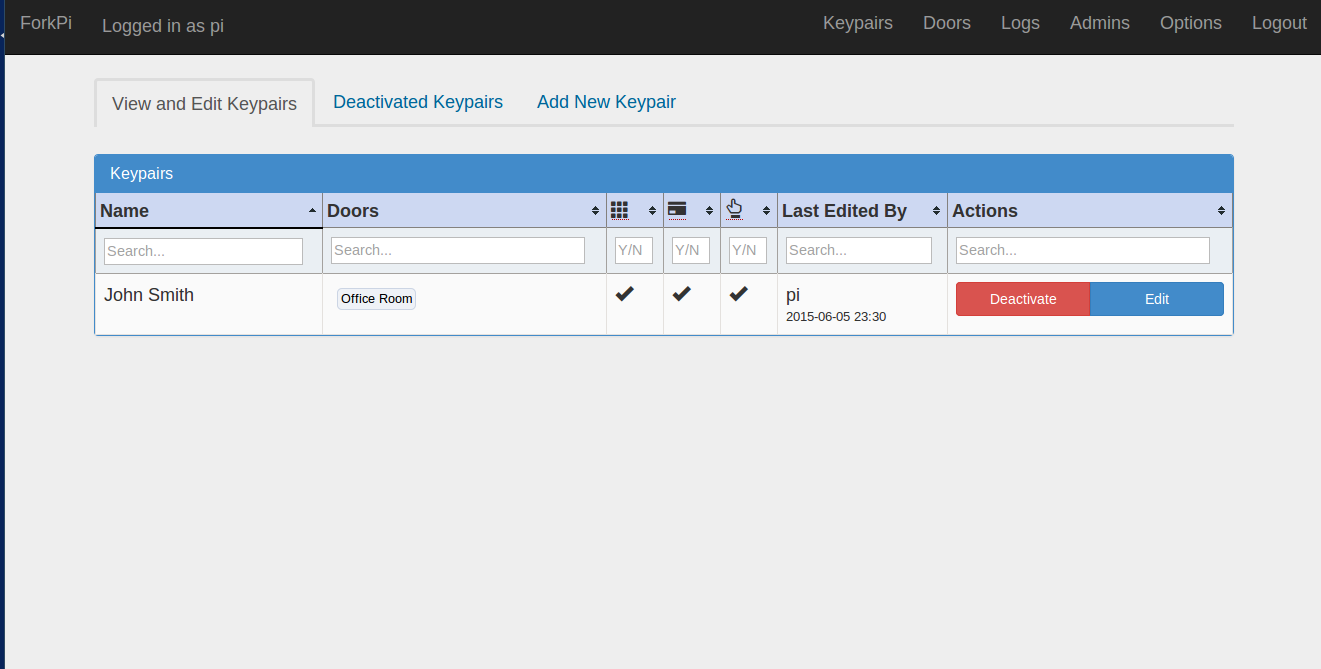
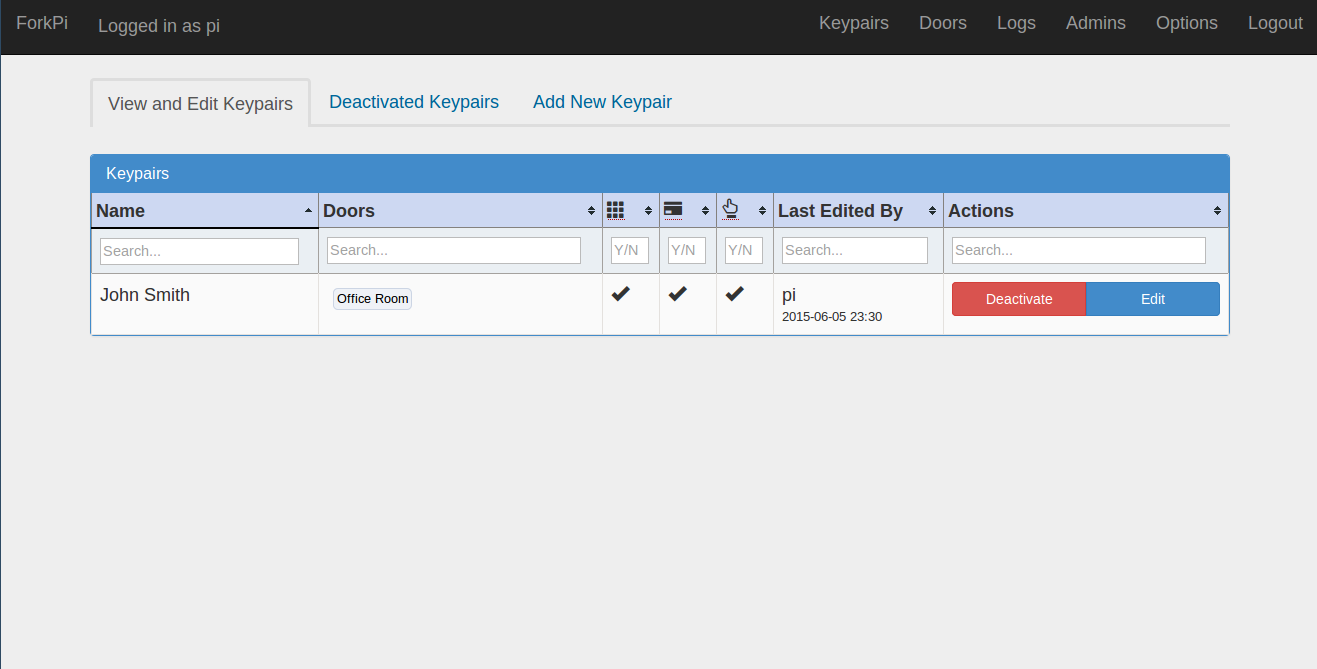
Fixed the images.

diff --git a/README.md b/README.md
@@ -151,25 +151,25 @@ The flowchart below gives an overview of the main transaction loop. The process 
 ![spoonpi-flowchart](https://github.com/crentagon/forkpi/blob/master/images/spoonpi-flowchart.png)
 
 #### Default Screen
-![spoon-initial](https://github.com/crentagon/forkpi/blob/master/images/spoon-initial.png)
+![spoon-initial](https://github.com/crentagon/forkpi/blob/master/images/spoon-initial.jpg)
 
 #### Entering the PIN
-![spoon-pin](https://github.com/crentagon/forkpi/blob/master/images/spoon-pin.png)
+![spoon-pin](https://github.com/crentagon/forkpi/blob/master/images/spoon-pin.jpg)
 
 #### Swiping the RFID Card
-![spoon-rfid](https://github.com/crentagon/forkpi/blob/master/images/spoon-rfid.png)
+![spoon-rfid](https://github.com/crentagon/forkpi/blob/master/images/spoon-rfid.jpg)
 
 The RFID security we implemented is simple in that only the UID is retrieved from the tag. Hence, a combination of RFID and PIN may be vulnerable to brute force attacks. To prevent this, we defined an attempt limit of 5 (which can be reconfigured via ForkPi options). If a registered RFID tag is presented but the wrong PIN is entered, the failed attempt streak counter will increment, and if this reaches 5, the SpoonPi unit will reject all further log-in attempts from that RFID tag. 
 
 This lockout will expire after a certain amount of time, after which the RFID tag can be used normally again. Note that lockouts are local to a SpoonPi unit; an RFID tag locked out for a certain door can still be used in other doors.
 
 #### Scanning Fingerprint
-![spoon-fingerprint](https://github.com/crentagon/forkpi/blob/master/images/spoon-fingerprint.png)
+![spoon-fingerprint](https://github.com/crentagon/forkpi/blob/master/images/spoon-fingerprint.jpg)
 
 In finding keypairs whose fingerprint template matches that of the finger presented to SpoonPi, the fingerprint thread queries ForkPi for all keypairs that have a non-blank fingerprint template field, and are linked to its door. Then, it registers the presented template onto the fingerprint scanner's onboard memory. It uploads the queried templates, and matches it with the presented template using the scanner's internal matching algorithm. It stores the keypair IDs of all matches in a list, then returns that to the main transaction process, which queries for keypairs whose ID is in the list of fingerprint matches.
 
 #### Access Granted
-![spoon-granted](https://github.com/crentagon/forkpi/blob/master/images/spoon-granted.png)
+![spoon-granted](https://github.com/crentagon/forkpi/blob/master/images/spoon-granted.jpg)
 
 -----------------------
 
